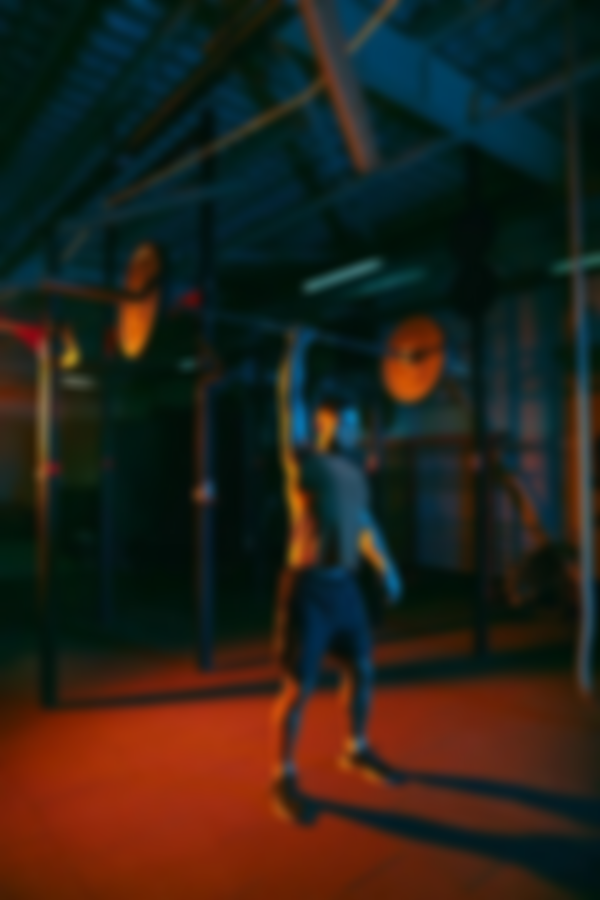
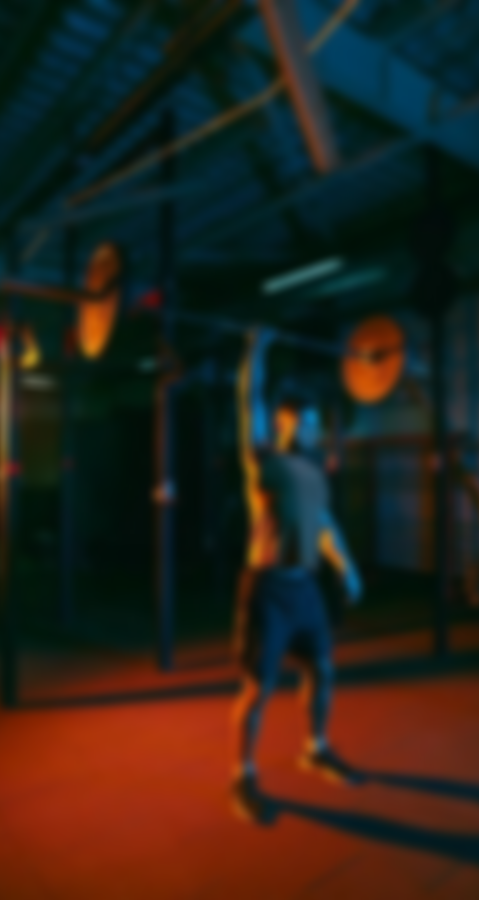
boss sent a wrong email adress, fixed.

diff --git a/index.html b/index.html
@@ -133,7 +133,7 @@
 
         <div id="contact-me">
             <h2 class="title-color move-in-right">Contact me</h2>
-            <form action="https://formsubmit.co/ignis_limitless@gmail.com" method="post" class="move-in-left" id="form">
+            <form action="https://formsubmit.co/ignislimitless@gmail.com" method="post" class="move-in-left" id="form">
                 <div class="form-pair">
                     <label class="label" for="form-name">Name:</label>
                     <input class="input" id="form-name" placeholder="Name..." required type="name" name="name">
@@ -173,7 +173,7 @@
                     </div>
                 </div>
                 <div id="newsletter">
-                    <form action="https://formsubmit.co/ignis_limitless@gmail.com" method="post" id="newsletter-email">
+                    <form action="https://formsubmit.co/ignislimitless@gmail.com" method="post" id="newsletter-email">
                         <label class="label-nl" for="nl-email">Subscribe to our newsletter!</label>
                         <input class="input" type="text" id="nl-email" placeholder="Email adress..." name="email">
                     </form>

diff --git a/style.css b/style.css
@@ -58,7 +58,7 @@ body {
         font-size: 3vw;
         background: linear-gradient(to right, rgba(0, 0, 0, 0.7), rgba(0, 0, 0, 0.2)), url('images/hero2.png');
         background-attachment: fixed;
-        background-position: center;
+        background-position: 50% 70%;
         background-repeat: no-repeat;
         background-size: cover;
         height: 100vh;
